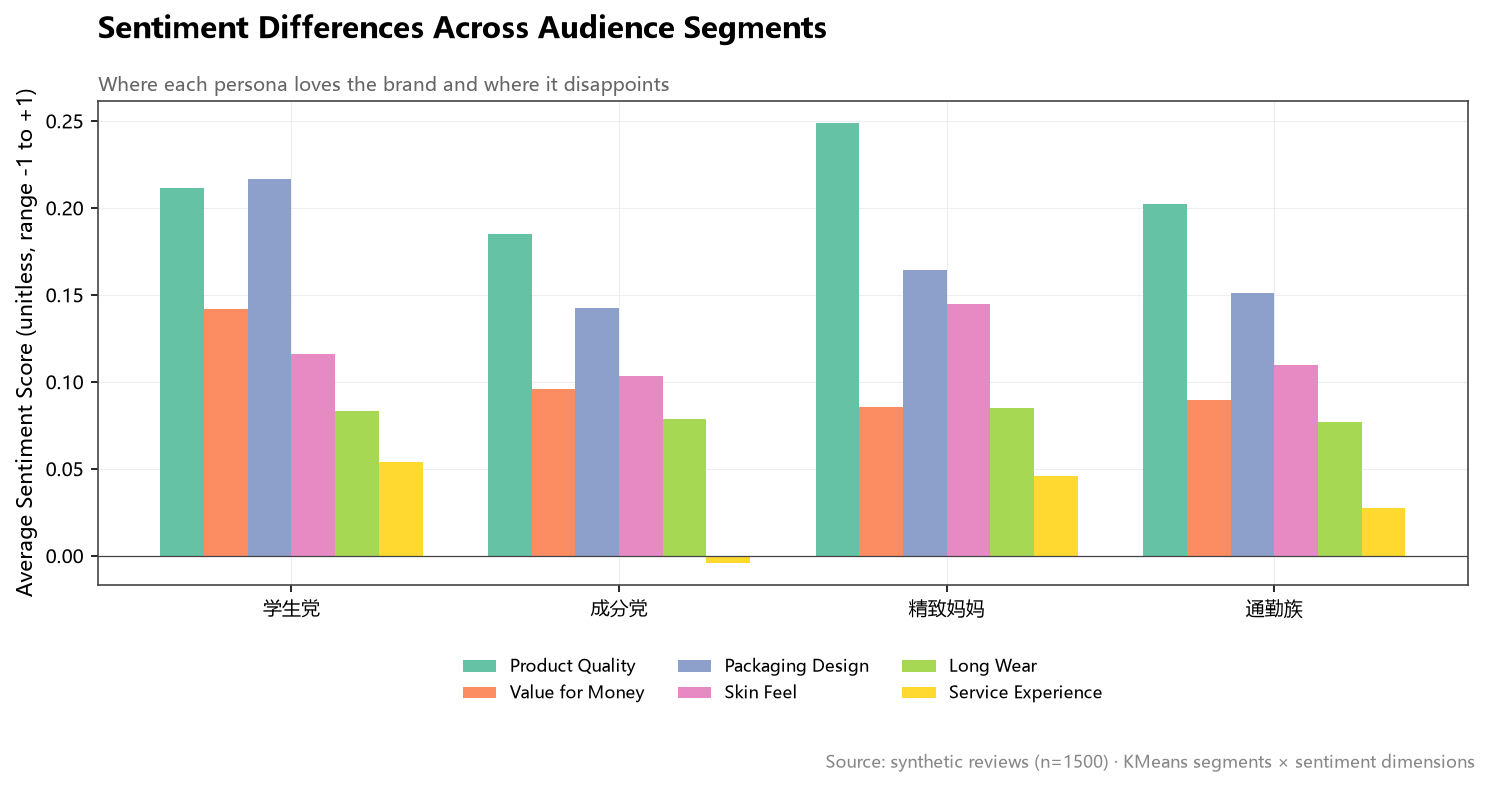
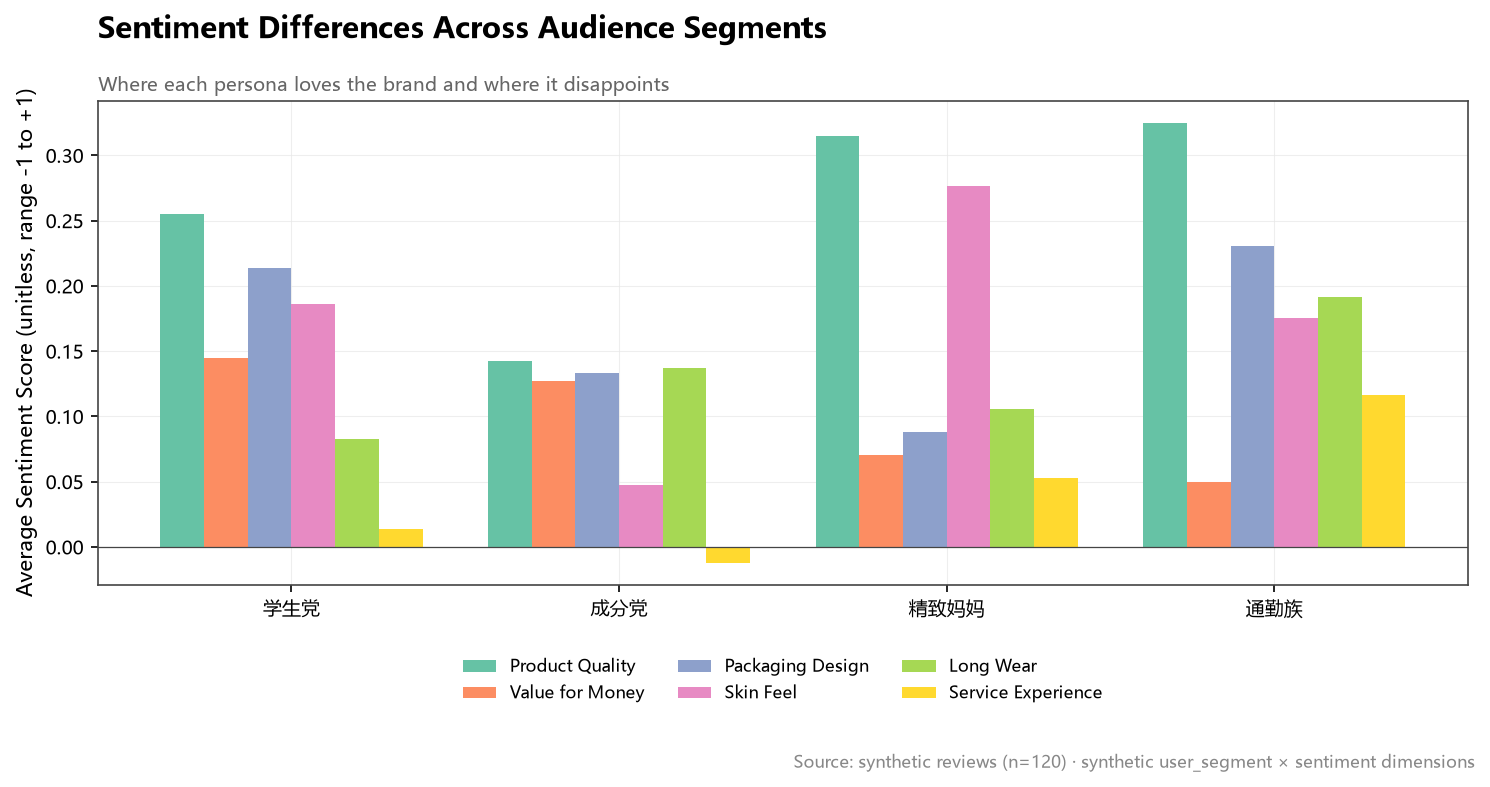
Fix report image paths and chart 02 data-source label

diff --git a/src/pipeline.py b/src/pipeline.py
@@ -16,7 +16,6 @@ from .config import (
     FIGURES_DIR,
     IndustryConfig,
     PROCESSED_DATA_DIR,
-    PROJECT_ROOT,
     RANDOM_SEED,
     REPORTS_DIR,
     ROIConfig,
@@ -254,23 +253,15 @@ def run_full_pipeline(
             print(f"[evaluation] ROI CV eval skipped: {exc}")
 
     # ----- Step 13: report -------------------------------------------
-    # 把 figures 路径转成相对路径（相对于 PROJECT_ROOT，即项目根），
-    # 这样报告里写出的图片引用永远是 ``outputs/figures/xx.png``，
-    # 与 README 中的引用风格保持一致；不会因运行机器不同而出现绝对路径，
-    # 也不会泄露本地用户名。
-    report_base = PROJECT_ROOT
-    relative_figures: Dict[str, Path] = {}
-    for _fig_key, _fig_path in figures.items():
-        try:
-            relative_figures[_fig_key] = _fig_path.relative_to(report_base)
-        except ValueError:
-            # 兜底：figures 路径不在 PROJECT_ROOT 下（用户传 --out 到别处），
-            # 退回到相对于 reports 父目录；如果还不行，就保留原值。
-            try:
-                relative_figures[_fig_key] = _fig_path.relative_to(out_rep.parent)
-            except ValueError:
-                relative_figures[_fig_key] = _fig_path
-    figures = relative_figures
+    # 报告位于 outputs/reports/，图片位于 outputs/figures/，二者是兄弟目录，
+    # 所以报告里的图片引用必须写成 ``../figures/xx.png``（相对报告文件本身），
+    # 否则 GitHub 会把 ``outputs/figures/xx.png`` 解析到
+    # outputs/reports/outputs/... 而 404。这里只生成一份「相对报告目录」的副本
+    # 用于写报告；``figures`` 本身仍保留绝对路径，供 Streamlit / 调用方使用。
+    report_figures: Dict[str, Path] = {
+        _key: Path("..") / _path.parent.name / _path.name
+        for _key, _path in figures.items()
+    }
 
     report_path = _write_markdown_report(
         out_path=out_rep / "pipeline_report.md",
@@ -284,7 +275,7 @@ def run_full_pipeline(
         funnel=funnel,
         roi=roi,
         campaigns=campaigns,
-        figures=figures,
+        figures=report_figures,
         clustering_eval=clustering_eval_obj,
         topic_agreement=topic_agreement_obj,
         sentiment_rating=sentiment_rating_obj,
@@ -365,7 +356,7 @@ def _write_markdown_report(
     a("")
     a("![情感按细分群分布]({})".format(figures["sentiment_by_segment"].as_posix()))
     a("")
-    a("> 上图展示了 6 个情感维度在 4 个细分群上的均分。配合下一节受众细分一起读，可以快速看到哪个细分群在哪个维度上偏高/偏低。")
+    a("> 上图按 4 个合成人群标签（user_segment：学生党 / 通勤族 / 成分党 / 精致妈妈）展示 6 个情感维度的均分；这与下一节由 KMeans 聚类得到的「受众细分」不同，阅读时请区分。")
     a("")
     a("## 2. 受众细分")
     a("")

diff --git a/src/visualization/charts.py b/src/visualization/charts.py
@@ -174,7 +174,7 @@ def plot_sentiment_by_segment(
     ax.text(0, 1.02, subtitle, transform=ax.transAxes, fontsize=9, color="#666", style="italic")
     ax.legend(loc="upper center", bbox_to_anchor=(0.5, -0.12),
               ncol=min(3, n_dim), frameon=False, fontsize=8)
-    _add_source(fig, _source_line(n_reviews, "KMeans segments × sentiment dimensions"))
+    _add_source(fig, _source_line(n_reviews, "synthetic user_segment × sentiment dimensions"))
     return _save(fig, out_path)
 
 

diff --git a/outputs/reports/pipeline_report.md b/outputs/reports/pipeline_report.md
@@ -3,48 +3,48 @@
 **品牌**：花西子 Florasis  
 **行业**：美妆 (Beauty / Cosmetics)  
 **平台**：小红书, 微博, 天猫  
-**评论数**：1500  
+**评论数**：120  
 **随机种子**：42  
 
 > **重要声明：本报告所有数字均来自程序化合成的 review 数据（synthetic data），不构成任何真实业务结论。ROI 与模拟点击率均为示意性指标。**
 
 ## 1. 多维度情感概览
 
-![情感概览](outputs/figures/01_sentiment_by_dimension.png)
+![情感概览](../figures/01_sentiment_by_dimension.png)
 
 ### 维度均值表
 
 | dimension          |   avg_score |
 |:-------------------|------------:|
-| Product Quality    |   0.211662  |
-| Value for Money    |   0.103153  |
-| Packaging Design   |   0.168543  |
-| Skin Feel          |   0.118231  |
-| Long Wear          |   0.0807667 |
-| Service Experience |   0.0307913 |
+| Product Quality    |   0.254917  |
+| Value for Money    |   0.1       |
+| Packaging Design   |   0.159442  |
+| Skin Feel          |   0.171333  |
+| Long Wear          |   0.126083  |
+| Service Experience |   0.0383333 |
 
 ### 情感按细分群分布
 
-![情感按细分群分布](outputs/figures/02_sentiment_by_segment.png)
+![情感按细分群分布](../figures/02_sentiment_by_segment.png)
 
-> 上图展示了 6 个情感维度在 4 个细分群上的均分。配合下一节受众细分一起读，可以快速看到哪个细分群在哪个维度上偏高/偏低。
+> 上图按 4 个合成人群标签（user_segment：学生党 / 通勤族 / 成分党 / 精致妈妈）展示 6 个情感维度的均分；这与下一节由 KMeans 聚类得到的「受众细分」不同，阅读时请区分。
 
 ## 2. 受众细分
 
-![细分占比](outputs/figures/03_segment_share.png)
+![细分占比](../figures/03_segment_share.png)
 
 ### 细分群画像表
 
 |   segment_id |   volume |   avg_rating |    天猫 |   小红书 |    微博 |    抖音 |   朋友圈 |   18-23 |   24-30 |   31-40 |   40+ |
 |-------------:|---------:|-------------:|------:|------:|------:|------:|------:|--------:|--------:|--------:|------:|
-|            0 |      618 |      4.78641 | 0.278 | 0.249 | 0.388 | 0     | 0.084 |   0     |   0.362 |   0.453 | 0.184 |
-|            1 |      456 |      3.1557  | 0.213 | 0.463 | 0.239 | 0.044 | 0.042 |   0.193 |   0.342 |   0.362 | 0.103 |
-|            2 |      248 |      4.68548 | 0.347 | 0.48  | 0     | 0.173 | 0     |   1     |   0     |   0     | 0     |
-|            3 |      178 |      1.26404 | 0.242 | 0.449 | 0.247 | 0.045 | 0.017 |   0.23  |   0.337 |   0.343 | 0.09  |
+|            0 |       25 |      4.76    | 0     | 1     | 0     | 0     | 0     |   0.32  |   0.48  |   0.2   | 0     |
+|            1 |       25 |      4.72    | 0     | 0     | 0.96  | 0     | 0.04  |   0     |   0.32  |   0.52  | 0.16  |
+|            2 |       43 |      2.53488 | 0.302 | 0.349 | 0.186 | 0.047 | 0.116 |   0.209 |   0.279 |   0.419 | 0.093 |
+|            3 |       27 |      4.62963 | 0.778 | 0     | 0     | 0.222 | 0     |   0.444 |   0.148 |   0.259 | 0.148 |
 
 ## 3. 核心话题
 
-![话题占比](outputs/figures/04_topic_share.png)
+![话题占比](../figures/04_topic_share.png)
 
 | topic_id            | topic_label_cn   | description           | representative_keywords         |   share_estimate |
 |:--------------------|:-----------------|:----------------------|:--------------------------------|-----------------:|
@@ -66,24 +66,24 @@
 
 ## 5. 趋势与漏斗
 
-![趋势](outputs/figures/05_weekly_trend.png)
+![趋势](../figures/05_weekly_trend.png)
 
-![漏斗](outputs/figures/06_funnel.png)
+![漏斗](../figures/06_funnel.png)
 
-> 漏斗中转化率最低的阶段是 05_Repurchase (40.0%). 建议优先在该阶段加强内容/促销/客服干预。
+> 漏斗中转化率最低的阶段是 05_Repurchase (36.4%). 建议优先在该阶段加强内容/促销/客服干预。
 
 > Soft funnel inferred from review text, NOT real behavioural conversion data (no impressions / clicks / orders). Treat as directional only.
 
 ## 6. 示意性 ROI 指数 (Illustrative ROI Index)
 
-![ROI](outputs/figures/07_roi_by_segment.png)
+![ROI](../figures/07_roi_by_segment.png)
 
 |   cluster_id |   volume |   avg_sentiment |   avg_rating |   predicted_soft_conversion |   expected_cost |   expected_revenue |   expected_roi |   illustrative_roi_index |
 |-------------:|---------:|----------------:|-------------:|----------------------------:|----------------:|-------------------:|---------------:|-------------------------:|
-|            0 |      618 |        0.967231 |      4.78641 |                    0.867522 |            3090 |           27255.4  |          7.821 |                    7.821 |
-|            1 |      456 |        0.25309  |      3.1557  |                    0.636451 |            2280 |            7466.59 |          2.275 |                    2.275 |
-|            2 |      248 |        0.995968 |      4.68548 |                    0.870356 |            1240 |           11021.8  |          7.889 |                    7.889 |
-|            3 |      178 |       -0.965292 |      1.26404 |                    0.337572 |             890 |               0    |         -1     |                   -1     |
+|            0 |       25 |        0.942    |      4.76    |                    0.86534  |             125 |            1096.02 |          7.768 |                    7.768 |
+|            1 |       25 |        0.984    |      4.72    |                    0.871161 |             125 |            1113.48 |          7.908 |                    7.908 |
+|            2 |       43 |       -0.120186 |      2.53488 |                    0.531473 |             215 |             162.4  |         -0.245 |                   -0.245 |
+|            3 |       27 |        1        |      4.62963 |                    0.865837 |             135 |            1185.31 |          7.78  |                    7.78  |
 
 > Illustrative ROI index — synthetic data only. Computed from sentiment-driven soft_conversion signals with ARPU=¥120 and CAC=¥5 (see ROIConfig in src/config.py). K-fold CV R²/MAE on per-review ROI proxy report how well the four features predict per-review ROI; this is NOT a real causal estimate of marketing spend return.
 
@@ -114,10 +114,10 @@
 
 | 指标 | 值 |
 |---|---|
-| Silhouette score (range [-1, +1]) | +0.1537 |
-| Adjusted Rand Index vs synthetic user_segment | +0.1767 |
-| Normalized Mutual Information vs synthetic user_segment | +0.2662 |
-| N samples / N predicted clusters / N true labels | 1500 / 4 / 4 |
+| Silhouette score (range [-1, +1]) | +0.1775 |
+| Adjusted Rand Index vs synthetic user_segment | +0.0674 |
+| Normalized Mutual Information vs synthetic user_segment | +0.1626 |
+| N samples / N predicted clusters / N true labels | 120 / 4 / 4 |
 
 > Silhouette measures cluster separation on the feature space (higher = better separated, range [-1, +1]). ARI / NMI compare predicted clusters with the synthetic 'user_segment' label used during data generation; this is a circular check — high scores mean 'the clusterer rediscovered the synthetic segment structure', NOT 'the clusterer found real consumer segments in production data'.
 
@@ -125,9 +125,9 @@
 
 | 指标 | 值 |
 |---|---|
-| TF-IDF 关键词中被 LLM 提及的比例 (overlap_ratio) | 0.200 |
-| Jaccard | 0.073 |
-| LLM 关键词总数 / TF-IDF 关键词总数 / 重合数 | 29 / 15 / 3 |
+| TF-IDF 关键词中被 LLM 提及的比例 (overlap_ratio) | 0.267 |
+| Jaccard | 0.100 |
+| LLM 关键词总数 / TF-IDF 关键词总数 / 重合数 | 29 / 15 / 4 |
 
 > Overlap is computed by **set intersection** between the LLM's word-level keywords (e.g. ['包装', '设计', '好看']) and the TF-IDF word-level vocabulary (jieba-segmented) of the same corpus. On Chinese, even a perfect semantic topic will often show only partial overlap here because the LLM and jieba segment the same text slightly differently. Both metrics are heuristic — even perfect agreement does NOT prove the LLM extracted the right topics. It only shows the LLM did not contradict the most frequent surface words.
 
@@ -135,9 +135,9 @@
 
 | 指标 | 值 |
 |---|---|
-| Pearson r (p-value) | +0.8269 (p=0.00e+00) |
-| Spearman ρ (p-value) | +0.7689 (p=2.71e-293) |
-| N | 1500 |
+| Pearson r (p-value) | +0.7882 (p=1.22e-26) |
+| Spearman ρ (p-value) | +0.7328 (p=1.85e-21) |
+| N | 120 |
 
 > Pearson + Spearman between LLM-derived overall sentiment (range -1 to +1) and the user-given 1-5 star rating. On synthetic data both are derived from the same polarity lexicon, so the correlation is high by construction. Treat this as a sanity check (does the LLM agree with rating?), NOT as evidence of sentiment accuracy on real reviews.
 
@@ -145,18 +145,18 @@
 
 | 指标 | 值 |
 |---|---|
-| K-fold CV R² (per-review ROI proxy) | +0.9807 |
-| K-fold CV MAE | 0.3058 |
-| Folds / samples | 5 / 1500 |
+| K-fold CV R² (per-review ROI proxy) | +0.9790 |
+| K-fold CV MAE | 0.2445 |
+| Folds / samples | 5 / 120 |
 
 Coefficients (mean across folds):
 
 | feature           |   cv_coefficient | cv_r2   | cv_mae   | cv_folds   |
 |:------------------|-----------------:|:--------|:---------|:-----------|
-| overall           |           3.2279 | 0.9807  | 0.3058   | 5          |
-| high_rating       |           2.8077 | —       | —        | —          |
-| long_text         |           0.8848 | —       | —        | —          |
-| repurchase_intent |           0.6743 | —       | —        | —          |
+| overall           |           3.2574 | 0.9790  | 0.2445   | 5          |
+| high_rating       |           2.5086 | —       | —        | —          |
+| long_text         |           1.1221 | —       | —        | —          |
+| repurchase_intent |           0.6028 | —       | —        | —          |
 
 > Ridge K-fold CV on per-review ROI proxy. R² near 1 means the four proxy features can predict per-review ROI almost perfectly — expected because the proxy itself is a deterministic function of those features. The CV is still reported because it (a) confirms no numerical pathology in the proxy definition and (b) exposes the coefficient signs/magnitudes for the reviewer to sanity-check.
 
